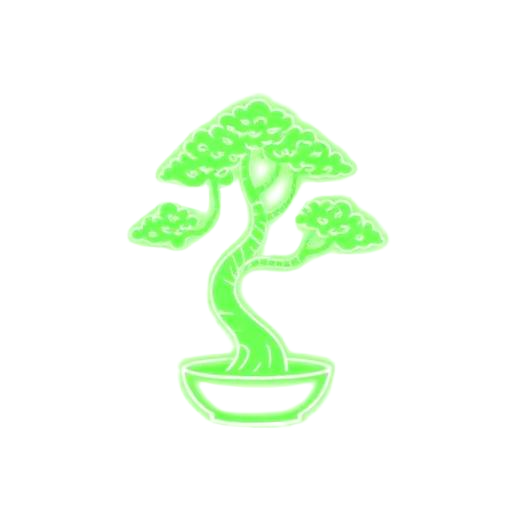
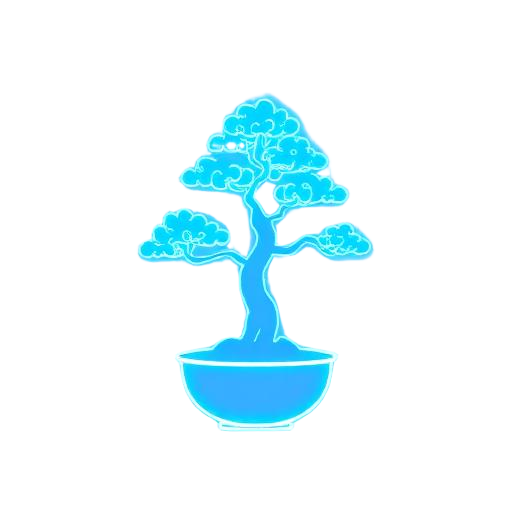
Changes

Changed region(s): [[0.25, 0.1562, 0.7812, 0.8438]]

diff --git a/src/styles.css b/src/styles.css
@@ -39,15 +39,15 @@
   --radius: 0.5rem;
   /* HUD dark theme — neon green on deep blue, purple accents */
   --background: oklch(0.14 0.05 260);
-  --foreground: oklch(0.95 0.18 145);
+  --foreground: oklch(0.92 0.15 230);
   --card: oklch(0.18 0.07 260);
-  --card-foreground: oklch(0.95 0.18 145);
+  --card-foreground: oklch(0.92 0.15 230);
   --popover: oklch(0.18 0.07 260);
-  --popover-foreground: oklch(0.95 0.18 145);
-  --primary: oklch(0.88 0.28 145);
+  --popover-foreground: oklch(0.92 0.15 230);
+  --primary: oklch(0.78 0.22 240);
   --primary-foreground: oklch(0.12 0.05 260);
   --secondary: oklch(0.24 0.09 260);
-  --secondary-foreground: oklch(0.95 0.18 145);
+  --secondary-foreground: oklch(0.92 0.15 230);
   --muted: oklch(0.22 0.08 260);
   --muted-foreground: oklch(0.75 0.18 310);
   --accent: oklch(0.65 0.28 310);
@@ -56,14 +56,14 @@
   --destructive-foreground: oklch(0.98 0 0);
   --border: oklch(0.6 0.2 260 / 0.5);
   --input: oklch(0.24 0.08 260);
-  --ring: oklch(0.88 0.28 145);
-  --glow: oklch(0.88 0.28 145);
+  --ring: oklch(0.78 0.22 240);
+  --glow: oklch(0.78 0.22 240);
   --grid-line: oklch(0.6 0.2 260 / 0.18);
 }
 
 .dark {
   --background: oklch(0.14 0.05 260);
-  --foreground: oklch(0.95 0.18 145);
+  --foreground: oklch(0.92 0.15 230);
 }
 
 @layer base {
@@ -92,8 +92,8 @@
     border: 1px solid var(--border);
     border-radius: var(--radius);
     box-shadow:
-      inset 0 0 0 1px oklch(0.88 0.28 145 / 0.05),
-      0 0 24px oklch(0.88 0.28 145 / 0.06);
+      inset 0 0 0 1px oklch(0.78 0.22 240 / 0.05),
+      0 0 24px oklch(0.78 0.22 240 / 0.06);
   }
   .hud-card::before,
   .hud-card::after {
@@ -119,15 +119,15 @@
     font-weight: 600;
   }
   .hud-glow {
-    text-shadow: 0 0 12px oklch(0.88 0.28 145 / 0.6);
+    text-shadow: 0 0 12px oklch(0.78 0.22 240 / 0.6);
   }
   .hud-scan {
     background-image: repeating-linear-gradient(
       0deg,
       transparent 0px,
       transparent 2px,
-      oklch(0.88 0.28 145 / 0.03) 2px,
-      oklch(0.88 0.28 145 / 0.03) 3px
+      oklch(0.78 0.22 240 / 0.03) 2px,
+      oklch(0.78 0.22 240 / 0.03) 3px
     );
   }
 }
@@ -137,16 +137,16 @@
   to { stroke-dashoffset: 0; }
 }
 @keyframes spark-pulse {
-  0%, 100% { filter: drop-shadow(0 0 3px oklch(0.88 0.28 145 / 0.5)); }
-  50% { filter: drop-shadow(0 0 8px oklch(0.88 0.28 145 / 0.95)); }
+  0%, 100% { filter: drop-shadow(0 0 3px oklch(0.78 0.22 240 / 0.5)); }
+  50% { filter: drop-shadow(0 0 8px oklch(0.78 0.22 240 / 0.95)); }
 }
 @keyframes bar-rise {
   from { transform: scaleY(0); }
   to { transform: scaleY(1); }
 }
 @keyframes bar-breathe {
-  0%, 100% { opacity: 0.85; box-shadow: 0 0 6px oklch(0.88 0.28 145 / 0.4); }
-  50% { opacity: 1; box-shadow: 0 0 14px oklch(0.88 0.28 145 / 0.85); }
+  0%, 100% { opacity: 0.85; box-shadow: 0 0 6px oklch(0.78 0.22 240 / 0.4); }
+  50% { opacity: 1; box-shadow: 0 0 14px oklch(0.78 0.22 240 / 0.85); }
 }
 @keyframes ring-spin {
   to { transform: rotate(360deg); }

diff --git a/src/components/evolution/Sparkline.tsx b/src/components/evolution/Sparkline.tsx
@@ -21,8 +21,8 @@ export function Sparkline({ data, height = 70, labels, fill = true }: SparklineP
       <svg viewBox={`0 0 ${width} ${height}`} className="w-full" preserveAspectRatio="none" style={{ height }}>
         <defs>
           <linearGradient id="sparkFill" x1="0" x2="0" y1="0" y2="1">
-            <stop offset="0%" stopColor="oklch(0.88 0.28 145)" stopOpacity="0.35" />
-            <stop offset="100%" stopColor="oklch(0.88 0.28 145)" stopOpacity="0" />
+            <stop offset="0%" stopColor="oklch(0.78 0.22 240)" stopOpacity="0.35" />
+            <stop offset="100%" stopColor="oklch(0.78 0.22 240)" stopOpacity="0" />
           </linearGradient>
         </defs>
         {fill && <path d={area} fill="url(#sparkFill)" />}
@@ -30,7 +30,7 @@ export function Sparkline({ data, height = 70, labels, fill = true }: SparklineP
           className="spark-line"
           d={path}
           fill="none"
-          stroke="oklch(0.88 0.28 145)"
+          stroke="oklch(0.78 0.22 240)"
           strokeWidth="1.5"
           strokeLinecap="round"
           strokeLinejoin="round"

diff --git a/src/components/evolution/RingProgress.tsx b/src/components/evolution/RingProgress.tsx
@@ -14,16 +14,16 @@ export function RingProgress({ value, size = 90, label, sublabel }: RingProgress
   return (
     <div className="relative inline-flex items-center justify-center" style={{ width: size, height: size }}>
       <svg width={size} height={size} className="-rotate-90 ring-orbit">
-        <circle cx={size / 2} cy={size / 2} r={r} fill="none" stroke="oklch(0.55 0.25 145 / 0.25)" strokeWidth={stroke} />
+        <circle cx={size / 2} cy={size / 2} r={r} fill="none" stroke="oklch(0.5 0.2 240 / 0.25)" strokeWidth={stroke} />
         <circle
           cx={size / 2} cy={size / 2} r={r}
           fill="none"
-          stroke="oklch(0.88 0.28 145)"
+          stroke="oklch(0.78 0.22 240)"
           strokeWidth={stroke}
           strokeDasharray={`${dash} ${c}`}
           strokeLinecap="round"
           style={{
-            filter: "drop-shadow(0 0 6px oklch(0.88 0.28 145 / 0.7))",
+            filter: "drop-shadow(0 0 6px oklch(0.78 0.22 240 / 0.7))",
             transition: "stroke-dasharray 0.8s cubic-bezier(0.2, 0.8, 0.2, 1)",
           }}
         />

diff --git a/src/components/evolution/Onboarding.tsx b/src/components/evolution/Onboarding.tsx
@@ -184,14 +184,14 @@ function StepForm({
 function Bonsai() {
   return (
     <div className="relative h-40 w-40 rounded-full border border-primary/50 flex items-center justify-center bg-primary/5 overflow-hidden">
-      <div className="absolute inset-0 rounded-full" style={{ boxShadow: "inset 0 0 30px oklch(0.88 0.28 145 / 0.35)" }} />
+      <div className="absolute inset-0 rounded-full" style={{ boxShadow: "inset 0 0 30px oklch(0.78 0.22 240 / 0.35)" }} />
       <img
         src={bonsaiImg}
         alt="Bonsai emblem"
         width={512}
         height={512}
         className="h-32 w-32 object-contain"
-        style={{ filter: "drop-shadow(0 0 10px oklch(0.88 0.28 145 / 0.7))" }}
+        style={{ filter: "drop-shadow(0 0 10px oklch(0.78 0.22 240 / 0.7))" }}
       />
     </div>
   );

diff --git a/src/components/evolution/BarChart.tsx b/src/components/evolution/BarChart.tsx
@@ -15,7 +15,7 @@ export function BarChart({ data, labels, height = 70 }: BarChartProps) {
             className="flex-1 rounded-sm bar-anim"
             style={{
               height: `${(v / max) * 100}%`,
-              background: "linear-gradient(180deg, oklch(0.88 0.28 145), oklch(0.55 0.25 145))",
+              background: "linear-gradient(180deg, oklch(0.78 0.22 240), oklch(0.5 0.2 240))",
               minHeight: 4,
               animationDelay: `${i * 90}ms, ${i * 90 + 900}ms`,
             }}
